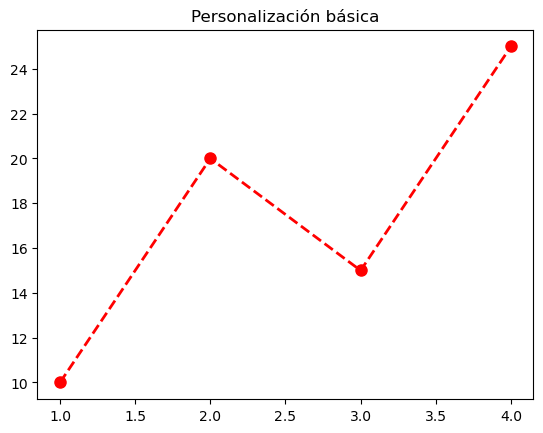
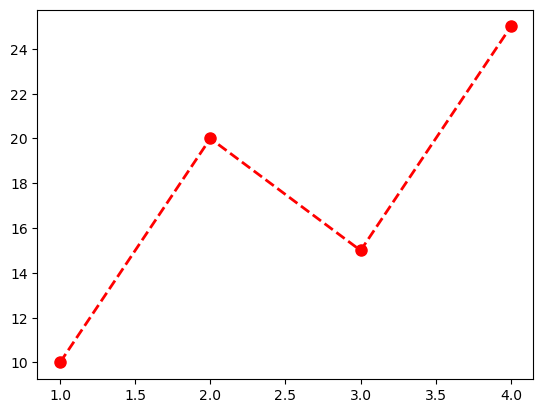
python matplotlib

diff --git a/docs/stylesheets/extra.css b/docs/stylesheets/extra.css
@@ -343,6 +343,8 @@
   font-weight: bold;
   font-size: 1.2em;
   color:cornflowerblue;
+  text-transform: none;
+   
 }
 
 /* Añade margen extra después de cualquier bloque de código */

diff --git a/docs/SMX/SMX_2/Opt_Python/07_BBDD.md b/docs/SMX/SMX_2/Opt_Python/07_BBDD.md
@@ -2509,7 +2509,7 @@ El flujo habitual para crear un gráfico sencillo es:
 
 1. Definir los datos.
 
-1. Crear el gráfico.
+1. Crear el gráfico (se crearán tantos plt.plot() como gráficos queramos representar).
 
 1. Personalizarlo.
 
@@ -2577,28 +2577,139 @@ plt.plot(
     marker="o",         # Marcador
     markersize=8        # Tamaño del marcador
 )
-
-plt.title("Personalización básica")
 plt.show()
 ```
 ![notebook_jupyter_vsc](./img/UT7/matplotlib/mpl-5.png){.cincozero   }
 
 **Parámetros habituales:**  
 
-- **Estilo de líneas**
+- **Estilos de líneas**
 ![notebook_jupyter_vsc](./img/UT7/matplotlib/mpl-2.png){.trescinco .marginbottom40 .margintop10    }
-- **Estilo de marcadores**
+- **Estilos de marcadores**
 ![notebook_jupyter_vsc](./img/UT7/matplotlib/mpl-3.png){.trescinco .marginbottom40 .margintop10   }
-- **Estilo de colores**
+- **Estilos de colores**
 ![notebook_jupyter_vsc](./img/UT7/matplotlib/mpl-4.png){.cuatrocinco .marginbottom40 .margintop10   }
 
 ##### 2.5.5.2 - Título, leyendas, ejes y tamaño de gráfico
-Para mejorar el aspecto de nuestro gráfico utilizamos la función subplots() de matplotlib.pyplot, que permite crear de forma simultánea:
+
+- **Tamaño del gráfico (figsize)**
+El tamaño se define al momento de crear la figura. Se expresa en pulgadas (ancho, alto).
+```py
+plt.figure(figsize=(10, 6)) # 10 pulgadas de ancho por 6 de alto
+```
+- **Títulos y Etiquetas de Ejes**
+Entre (muchos) otros se puede usar **title**, **xlabel** e **ylabel**. Admiten parámetros como **fontsize**, **fontweight**, **color**, **fontdict** (diccionario con los parámetros anteriores) o **loc** (location, `right`, `left` o `center`).
+
+    - plt.title(): Define el título principal.
+    - plt.xlabel(): Etiqueta el eje horizontal (X).
+    - plt.ylabel(): Etiqueta el eje vertical (Y).
+```py
+# Diccionario con todos los parametros de la fuente a usar
+font = {'family':'serif','color':'blue','size':14}
+# Declaraciones de titulo y ejes. 
+plt.title("Personalización básica", fontdict=font, loc='right')
+plt.xlabel("Valores de X", fontdict=font)
+plt.ylabel("Valores de Y", fontdict=font)
+```
+- **Leyendas**  
+Representar varias series en una misma gráfica suele ser bastante habitual, por lo que será necesario identificarlas con una leyenda. 
+```py
+# Se pasan a legend una lista con todos los nombres
+# de las graficas
+font3 = {'family':'serif','size':8}
+plt.legend(["Esto es una leyenda", "Esto es otra leyenda"], prop = font3, labelcolor='linecolor')
+```
+
+##### 2.5.5.3 - Rejilla y color de fondo
+
+- **Control de rejilla**  
+La función **plt.grid()** permite añadir una cuadrícula al fondo del gráfico. Por defecto aparecerá en un gris suave en ambos ejes.
+```py
+# Configuración de la rejilla
+plt.grid(
+    visible=True,      # Visible     
+    axis='y',          # Solo líneas horizontales por defecto 'both'
+    color='gray',      # Color de la línea
+    linestyle='--',    # Línea discontinua
+    linewidth=0.5,     # Grosor fino
+    alpha=0.7          # Control de transparencia
+)
+```
+
+##### 2.5.5.4 - Valores de los ejes
+Las funciones **xlim** e **ylim** permiten delimitar los valores mínimo y máximo de cada eje (en un gráfico bidimensional).
+```py
+plt.xlim(-1, 10)
+plt.ylim(8, 27)
+```
+
+##### 2.5.5.5 - Ejemplo completo
+```py
+import numpy as np
+import matplotlib.pyplot as plt
+
+x = [1, 2, 3, 4]
+y = [10, 20, 15, 25]
+x1 = [5, 6, 7, 8]
+y1 = y[::-1]
+
+plt.plot(
+    x, y,
+    color="red",        # Color de la línea
+    linestyle="--",     # Estilo de línea
+    linewidth=2,        # Grosor
+    marker="o",         # Marcador
+    markersize=8,       # Tamaño del marcador    
+)
+plt.plot(
+    x1, y1,
+    color="blue",       # Color de la línea
+    linestyle="--",     # Estilo de línea
+    linewidth=2,        # Grosor
+    marker="v",         # Marcador
+    markersize=8,       # Tamaño del marcador    
+)
+
+# Declarar las fuentes que se usaran en el grafico
+font1 = {'family':'serif','color':'blue','size':14}
+font2 = {'family':'serif','color':'darkred','size':11}
+font3 = {'family':'serif','size':8} # para legend
+
+# Titulos, ejes y leyendas.
+plt.title("Personalización básica", fontdict=font1, loc="left")
+plt.xlabel("Valores de X", fontdict=font2)
+plt.ylabel("Valores de Y", fontdict=font2)
+plt.legend(["Esto es una leyenda", "Esto es otra leyenda"], prop = font3, labelcolor='linecolor')
+
+# Rejilla
+plt.grid(
+    visible=True,      # Visible     
+    axis='y',          # Solo líneas horizontales por defecto 'both'
+    color='gray',      # Color de la línea
+    linestyle='--',    # Línea discontinua
+    linewidth=0.5,     # Grosor fino
+    alpha=0.7          # Un poco de transparencia
+)
+
+# Limites de la gráfica
+plt.xlim(-1, 10)
+plt.ylim(8, 27)
+
+# Pintar la gráfica
+plt.show()
+```
+![notebook_jupyter_vsc](./img/UT7/matplotlib/mpl-6.png){.cincozero   }
+
+
+
+
+
+<!-- Para mejorar el aspecto de nuestro gráfico utilizamos la función subplots() de matplotlib.pyplot, que permite crear de forma simultánea:
 
 - Un objeto Figure (fig), que representa el lienzo completo.
 - Uno o varios objetos Axes (ax), que representan las áreas donde se dibujan los gráficos.
 
-La función subplots(nrows, ncols) se usa principalmente para definir cuántos subgráficos (axes) queremos dentro de una misma figura (por defecto 1).
+La función subplots(nrows, ncols) se usa principalmente para definir cuántos subgráficos (axes) queremos dentro de una misma figura (por defecto 1). -->
 
 
 
